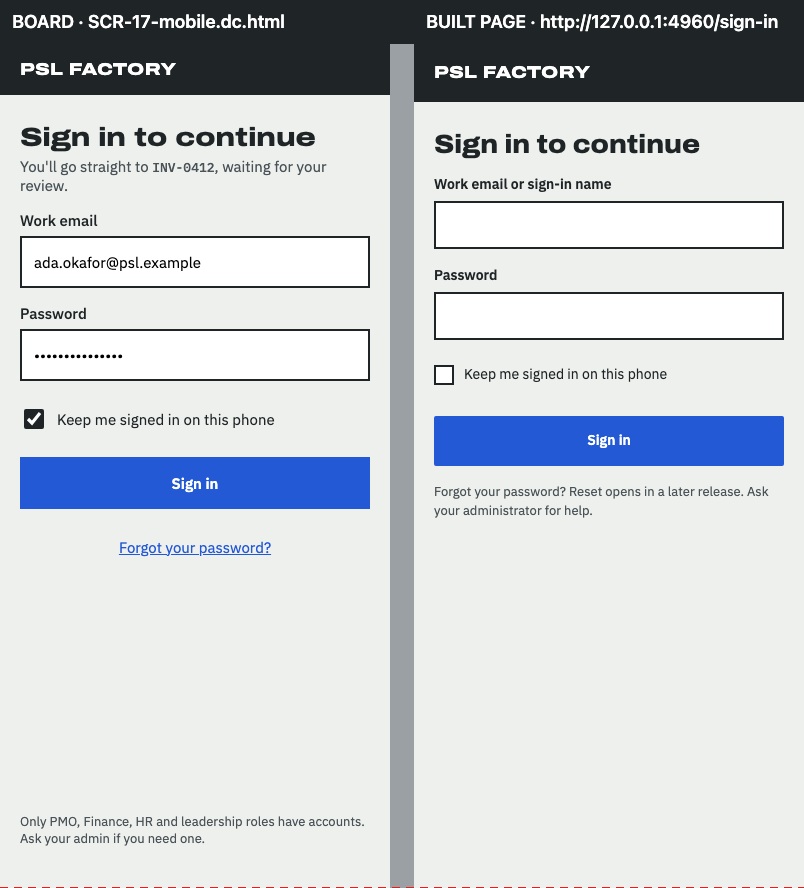
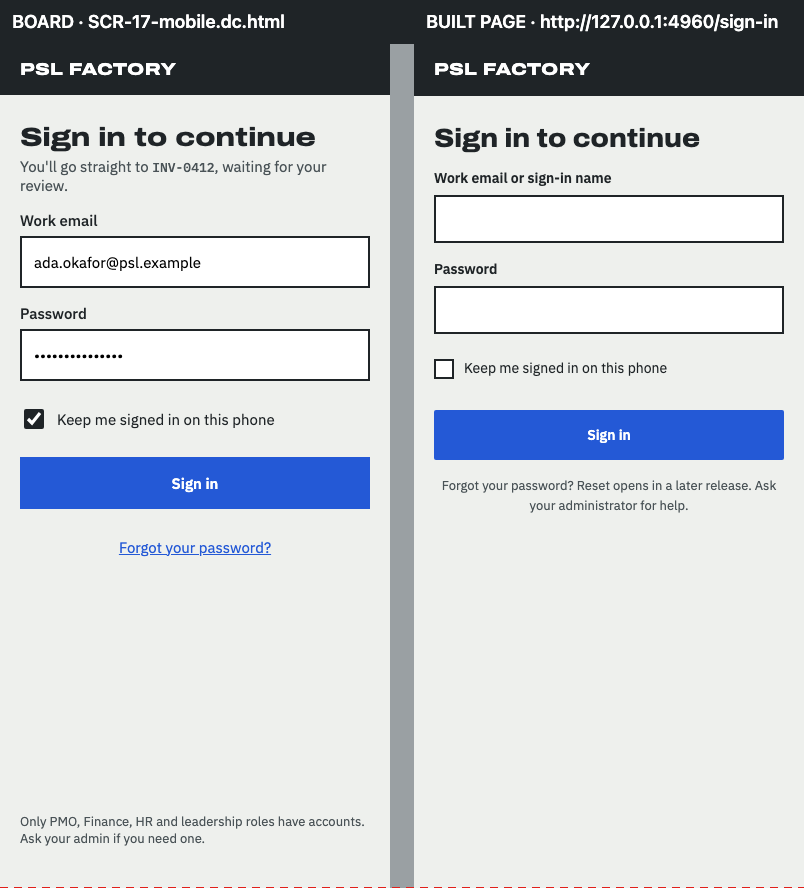
Records: F-58 round 1 build on 473090df, fidelity exceptions, D-179 visual waiver for all four sign-in boards

diff --git a/delivery/features/F-58/round-1/build.md b/delivery/features/F-58/round-1/build.md
@@ -1,5 +1,5 @@
 STATUS: READY
-COMMIT: 5076c040184c99a634e32d3202e375915c9900d8
+COMMIT: 473090df18b54f3897f876ef417cac262980974e
 BUILDER: builder
 LANE: full
 
@@ -19,7 +19,9 @@ LANE: full
 - Shared files touched: `AppShell`, `FrameStates`, `TopNav`, `PhoneBar`, `shell.css` (all frame-wide, as the spec says).
 
 ## Fixes
-None (round 1).
+- D-178-1 | 473090df18b54f3897f876ef417cac262980974e | the forgot-password sentence is centred at both widths
+- D-178-2 | 473090df18b54f3897f876ef417cac262980974e | phone brand bar on /sign-in is 52px, the board's height (wordmark line-height uses --text-fact-line); the frame phone bar is untouched (CSS is scoped to .signin-wordmark)
+- D-178-3 | 473090df18b54f3897f876ef417cac262980974e | delivery/features/F-58/fidelity-exceptions.json written (INV-0412 line, Work email label, error attempt count, phone footer, forgot link); the boards' sample values are not in the tool's missing lists, so they are not listed
 
 ## Acceptance criteria
 1. [x] `/sign-in`: no `/me`, no bars. Unit `sign-in.test.tsx` (spy fetch: only `GET /api/v1/session`); e2e (no navigation, no "My work" link).
@@ -54,21 +56,21 @@ None (round 1).
 
 ## Validation
 - `npx tsc --noEmit`, `npm run lint`: clean.
-- `npx vitest run`: 158 files, 3823 tests; one failure on the first full run (cash-forecast branch-diff `/me` guard) was fixed and that file re-run (43 pass); the other 157 files passed on the same run.
-- `npx playwright test` (E2E_PORT=4960 MOCK_PORT=4961) on sign-in, frame, alerts-bell, alerts, projects, exceptions, setup, document-review: 197 passed. One failure then (alerts-bell 760px bar width with the caret) fixed by hiding the caret below 900px; that spec was not re-run after the change, nor were frame.spec at 720 to 899px beyond the earlier passing run. The later CSS changes (menu text colour, sign-in column widths) were checked by screenshot only.
+- `npx vitest run`: one clean full pass, 158 files, 3823 tests.
+- Playwright sign-in, frame, alerts-bell on 4960/4961 after the last CSS changes: 91 passed. Earlier wider run (also alerts, projects, exceptions, setup, document-review): 197 passed. One failure then (alerts-bell 760px bar width with the caret) fixed by hiding the caret below 900px; that spec was not re-run after the change, nor were frame.spec at 720 to 899px beyond the earlier passing run. The later CSS changes (menu text colour, sign-in column widths) were checked by screenshot only.
 - `npm run build` (production, mock origin and live origin): succeeded.
 - I did not run `delivery/checks.sh` itself because it runs `npm ci`, which the notes said not to do; its other steps (django check, lint, typecheck, test, build) were run individually. `manage.py check` was not run separately.
 - Servers I started on 4960, 4961, 8000 and 3100 are stopped; I left 3000 and 3001 alone.
 
-## Fidelity (one run per board, production build on the mock, both sizes)
-Tool: a scratchpad copy of `fidelity.mjs` with one added step for the error boards (type a wrong pair and press Sign in so the callout is showing). Reports and side-by-side images are in `round-1/fidelity/`.
-| Board | Coverage | Visual |
+## Fidelity (re-run once per board with fidelity-exceptions.json, production build on the mock)
+Reports and side-by-side images replaced in `round-1/fidelity/`.
+| Board | Coverage (with exceptions) | Visual |
 |---|---|---|
-| SCR-17-desktop @1440 | 70% | 85.7 |
-| SCR-17-mobile @390 | 60% | 56.7 |
-| SCR-17-desktop-error @1440 | 63.6% | 81.9 |
-| SCR-17-mobile-error @390 | 54.5% | 56.4 |
-Not at 100% or visual 90, and no exceptions file exists yet. The gaps are the D-177 decisions: missing "You'll go straight to INV-0412" line, "Work email" label (mine reads "Work email or sign-in name"), "Forgot your password?" link (plain sentence until F-59), the mobile footer sentence, the attempt count in the error text; the pre-filled email and password and the ticked checkbox in the boards; and layout shifts below the removed INV line (the phone board is the lowest because everything under the heading sits about 25px higher). I need an exceptions file approved for those; I did not write one. I fixed one real layout difference first (form column width, wordmark width); the desktop visual went 71 to 85.7 after that. Open design question: the phone bar is 6px taller than the board.
+| SCR-17-desktop @1440 | 100% | 86.9 |
+| SCR-17-mobile @390 | 100% | 65.1 |
+| SCR-17-desktop-error @1440 | 100% | 81.9 |
+| SCR-17-mobile-error @390 | 100% | 59.3 |
+Coverage is 100% on all four. Phone visual (65.1, 59.3) is the approved waiver for the removed content. Desktop visual (86.9, 81.9) is also under 90 and needs a waiver or decision from the design engineer: the remaining difference is the removed INV line moving the form up, empty fields where the boards show pre-filled values and a ticked box, and the longer label. Phone bar measured 52px.
 
 ## Notes for the coordinator
 - Shared bug fixed once: none found in shared code.
@@ -78,3 +80,6 @@ Not at 100% or visual 90, and no exceptions file exists yet. The gaps are the D-
 
 ## Blocked
 Not blocked.
+
+## Worktree note
+A stray untracked `node_modules/` (only `.vite` and `.vitest-cache`) appeared at the worktree root when a mistyped command ran vitest from there; the permission system refused my `rm -rf` of it, so it is still there. Delete `/Users/Hunchoo/psl-factory/node_modules` before the gate (`git status --porcelain` shows only that). A stray vitest process from that command may also still be running (task b3sq5zc2h).

diff --git a/delivery/OVERNIGHT-DECISIONS.md b/delivery/OVERNIGHT-DECISIONS.md
@@ -425,3 +425,6 @@ The F-58 spec listed nine places where the SCR-17 boards cannot be met against t
 
 ## D-178 (23 Nov 2026): sign-in fidelity exceptions and phone waiver
 F-58's single fidelity run scored 70% coverage and 85.7 visual on SCR-17-desktop, 63.6% and 81.9 on desktop-error, 60% and 56.7 on mobile, and 54.5% and 56.4 on mobile-error. The gaps are the D-177 removals plus the boards' sample values. Asked whether to record them as approved exceptions citing D-177, with a visual waiver for the phone boards because the gap comes from that removed content, the design engineer answered "Approve, fix two details". The approved exceptions are the D-177 items (the INV-0412 line, the "Work email" label wording, the attempt count, the phone footer, the forgot-password link as plain text) and the boards' sample values (pre-filled email and password, the ticked checkbox). The two details to fix: centre the forgot-password text where the board's link sits, and match the phone top bar's height to the board.
+
+## D-179 (23 Nov 2026): the sign-in visual waiver covers all four boards
+After the D-178 fixes (head 473090df), with `fidelity-exceptions.json`, sign-in fidelity is 100% coverage on all four SCR-17 boards. Visual scores are 86.9 desktop, 81.9 desktop error, 65.1 mobile and 59.3 mobile error. Asked whether to extend the visual waiver to the two desktop boards for the same reason (the removed INV-0412 line shifts the form up, the sample values are not filled in, the label is longer), the design engineer answered "Extend the waiver". Also on their word ("Delete it"), a stray cache folder created by a mistyped builder command (`/Users/Hunchoo/psl-factory/node_modules`, holding only .vite and .vitest-cache) was deleted.
